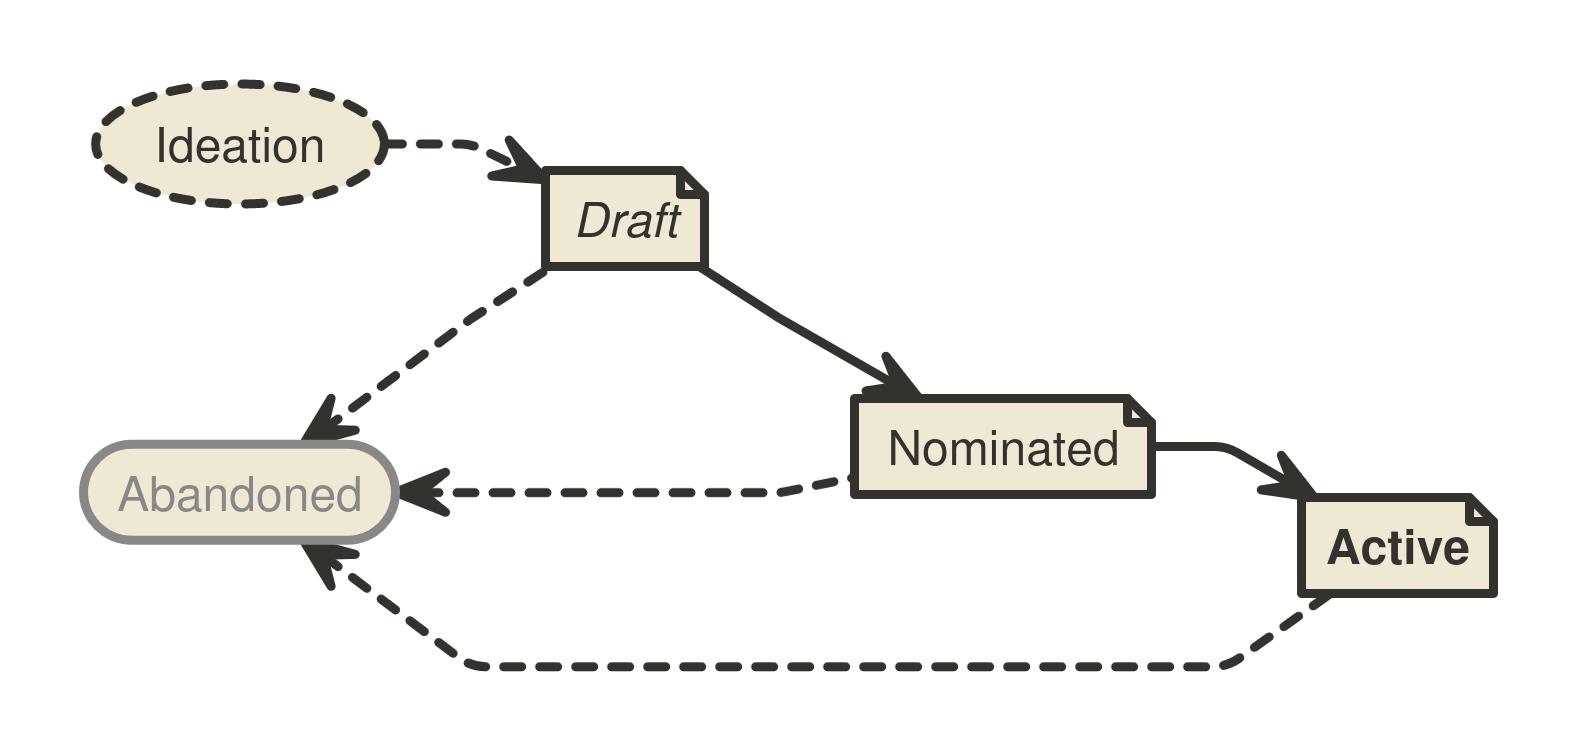
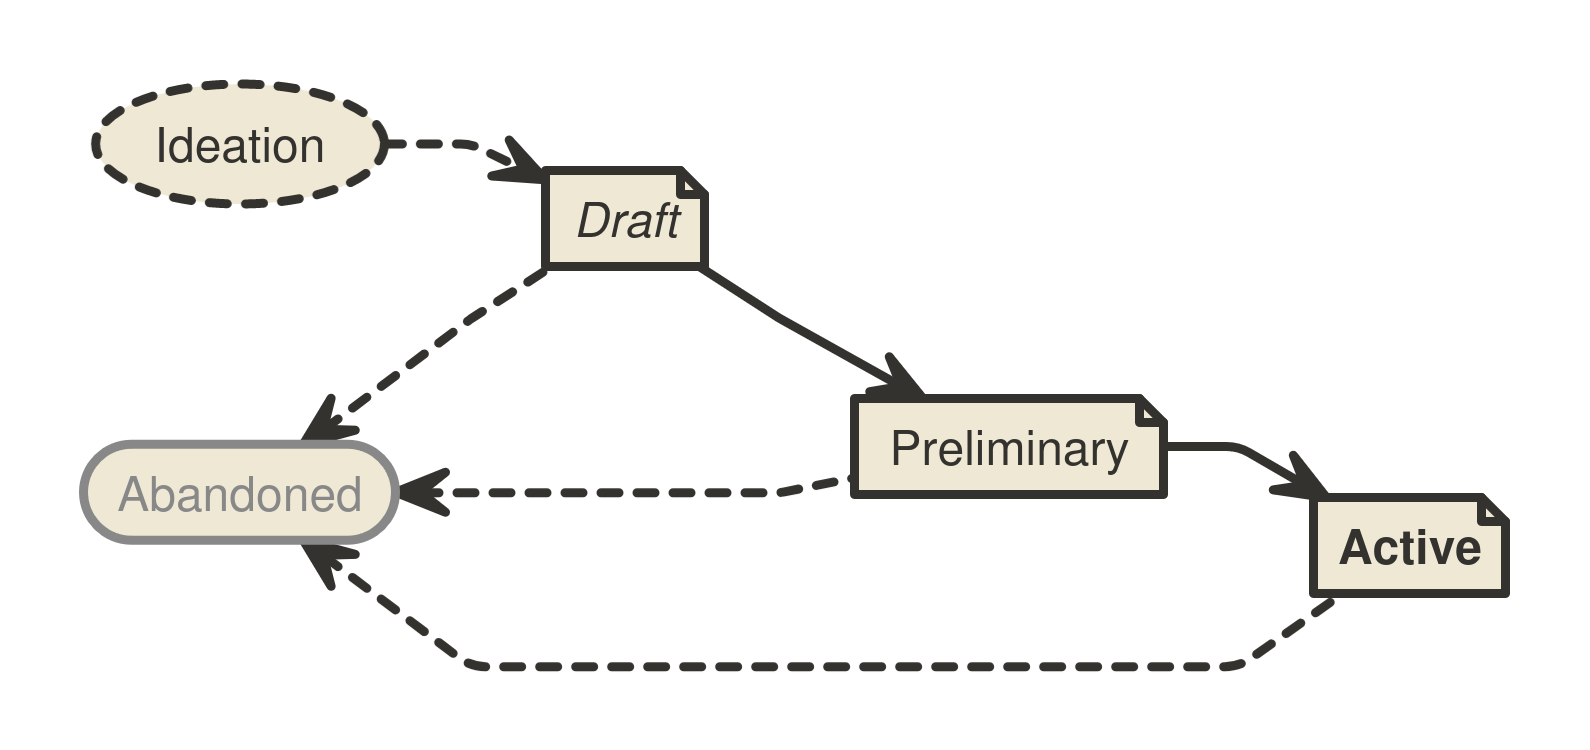
Replace Nominated with Preliminary

diff --git a/bip-update-process.md b/bip-update-process.md
@@ -71,9 +71,9 @@ Each BIP should have the following parts:
 * Backwards compatibility -- BIPs must include a section describing any backwards incompatibilities and their severity.
   The BIP must explain how implementors/users should deal with these incompatibilities.
 * Reference implementation -- Where applicable, a reference implementation, test vectors and documentation must be
-  completed before the BIP can be given status "Nominated". Any or all of these can be provided either in the BIP or as
+  completed before the BIP can be given status "Preliminary". Any or all of these can be provided either in the BIP or as
   auxiliary files. It is recommended to focus on specification and rationale before writing code.
-* Change Log -- An optional section to track modifications to a BIP after reaching Nominated status.
+* Change Log -- An optional section to track modifications to a BIP after reaching Preliminary status.
 * Footnotes -- A collection of footnotes cited in the BIP, and a place to list non-inline hyperlink targets
 * Copyright -- The BIP must be placed under an acceptable license ([see BIP Licensing below](#bip-licensing)).
 
@@ -90,7 +90,7 @@ marked with "\*" are optional. All other headers are required.
 * Layer: <Consensus (soft fork) | Consensus (hard fork) | Peer Services | API/RPC | Applications>
   Title: <BIP title; maximum 44 characters>
   Author: <list of authors’ names and email addresses>
-  Status: <Draft | Nominated | Active | Abandoned>
+  Status: <Draft | Preliminary | Active | Abandoned>
   Type: <Standards Track | Informational | Process>
   Created: <date created on, in ISO 8601 (yyyy-mm-dd) format>
   License: <abbreviation for approved license(s)>
@@ -216,24 +216,24 @@ After the BIP is merged to the repository, its main focus should no longer shift
 may continue to update the draft as necessary in the git repository. Updates to drafts by the author should also be
 submitted as pull requests.
 
-#### Nominated[^nominated]
+#### Preliminary[^preliminary]
 
 When the author is confident that their BIP represents a net-improvement, is clear, comprehensive, has a working
 reference implementation (if applicable), and is ready for adoption by the Bitcoin community, they may update the BIP’s
-status to Nominated to indicate that they recommend adoption or implementation of the BIP. Where applicable, the
+status to Preliminary to indicate that they recommend adoption or implementation of the BIP. Where applicable, the
 author must ensure that any proposed specification is solid, not unduly complicated, and definitive. Subsequently, a
 BIP’s content should only be adjusted in minor details, e.g. to improve language, clarify ambiguities, backfill
 omissions in the specification, add test vectors for edge-cases, or address other issues discovered as the BIP is
 adopted.
 
-A Nominated BIP can only move to Active or to Abandoned. Any necessary changes to the specification should be
-minimal and interfere as little as possible with on-going or concluded adoption. If a Nominated BIP is found to need
+A Preliminary BIP can only move to Active or to Abandoned. Any necessary changes to the specification should be
+minimal and interfere as little as possible with on-going or concluded adoption. If a Preliminary BIP is found to need
 substantial functional changes, it may be preferable to move it to Abandoned, and to draft a new BIP with the changes
 instead.
 
 #### Active
 
-At the earliest three months after a BIP has been moved to Nominated, a BIP may be advanced to Active upon request by
+At the earliest three months after a BIP has been moved to Preliminary, a BIP may be advanced to Active upon request by
 any community member with evidence that the idea described in the BIP is in active use. Such evidence includes
 for example: two or more projects having deployed support for the BIP in mainnet software releases, a soft fork
 proposal’s activation criteria having been met on the network, or rough consensus for the BIP having been demonstrated.
@@ -243,7 +243,7 @@ separate BIP.
 
 ##### Process BIPs
 
-A process BIP may change status from Nominated to Active when it achieves rough consensus on the mailing list. Such a
+A process BIP may change status from Preliminary to Active when it achieves rough consensus on the mailing list. Such a
 proposal is said to have rough consensus if it has been open to discussion on the development mailing list for at least
 one month, and no person maintains any unaddressed substantiated objections to it. Addressed or obstructive objections
 may be ignored/overruled by general agreement that they have been sufficiently addressed, but clear reasoning must be
@@ -252,14 +252,14 @@ has rough consensus per the same criteria.
 
 ##### Revisions
 
-To help implementers understand updates to a BIP, any changes after it has reached Nominated or Active are
+To help implementers understand updates to a BIP, any changes after it has reached Preliminary or Active are
 tracked with version, date, and description in a Change Log section. The version number is inspired by semantic
 versioning (MAJOR.MINOR.PATCH). The MAJOR version is incremented if changes to the BIP’s Specification are introduced
-that are incompatible with prior versions (which should be an exception after a BIP is Nominated, and not happen to a
+that are incompatible with prior versions (which should be an exception after a BIP is Preliminary, and not happen to a
 BIP that is Active). The MINOR version is incremented whenever the specification of the BIP
 is changed or extended in a backward-compatible way. The PATCH version is incremented for other changes to the BIP that
 are noteworthy (bug fixes, test vectors, important clarifications, etc.). The version should start at 1.0.0 with the
-date the BIP was promoted to Nominated. An example of a Change Log section can be seen in [BIP 352](bip-0352.mediawiki).
+date the BIP was promoted to Preliminary. An example of a Change Log section can be seen in [BIP 352](bip-0352.mediawiki).
 
 #### Abandoned[^abandoned]
 
@@ -268,9 +268,9 @@ proposal, or no longer recommends the proposed approach, AND the BIP is not in a
 
 BIP authors may decide on their own to change their BIP’s status from Draft to Abandoned.
 
-BIPs with the status Nominated can be moved to Abandoned after an author announces that to the
+BIPs with the status Preliminary can be moved to Abandoned after an author announces that to the
 Bitcoin Developer Mailing List and the motion is not opposed within 14 days. One of the opposers must become the new BIP author
-for the BIP to remain Nominated. A BIP can also be moved to Abandoned by BIP Editors, if it is not in active
+for the BIP to remain Preliminary. A BIP can also be moved to Abandoned by BIP Editors, if it is not in active
 use, its author has become unresponsive and no new author volunteers within four weeks.
 
 A BIP may evolve from Active to Abandoned when it is no longer in active use. Any community member may
@@ -280,7 +280,7 @@ initiate this Status update by announcing it to the mailing list and no objectio
 
 The BIPs repository does not track the sentiment on proposals and does not track the adoption of BIPs beyond whether
 they are in active use or not. It is not intended for BIPs to list additional implementations beyond the reference
-implementation.[^OtherImplementations] After a BIP is advanced to Nominated, it is up to the Bitcoin community to
+implementation.[^OtherImplementations] After a BIP is advanced to Preliminary, it is up to the Bitcoin community to
 evaluate, adopt, ignore, or repudiate a BIP. Individual Bitcoin projects are encouraged to publish a list of BIPs they
 implement. A good example of this at the time of writing this BIP can be observed in [Bitcoin Core’s doc/bips.md
 file](https://github.com/bitcoin/bitcoin/blob/master/doc/bips.md).
@@ -418,7 +418,7 @@ original intent of the author.
 
 - Refer to the proponent of a BIP as "author" throughout the document
 - Status field is no longer modeled around the workflow of consensus changes. The only remaining status are DRAFT,
-  NOMINATED, ACTIVE, and ABANDONED. The statuses Deferred, Final, Obsolete, Proposed, Rejected, Replaced, and Withdrawn
+  PRELIMINARY, ACTIVE, and ABANDONED. The statuses Deferred, Final, Obsolete, Proposed, Rejected, Replaced, and Withdrawn
   are sunset.
 - BIPs can no longer be rejected due to inactivity, but BIPs that see no adoption and whose author has become
   unreachable can be moved to Abandoned
@@ -460,7 +460,7 @@ This BIP is licensed under the [CC0 1.0 Universal](https://creativecommons.org/p
     This put an onus on the BIP authors, and frequently led to lingering pull requests due to the corresponding BIPs’
     authors no longer participating in the process. Many of these alternative implementations eventually became
     unmaintained or were low-quality to begin with. Therefore, "Other Implementations" sections are heavily discouraged.
-[^nominated]: **Why has the Proposed Status been renamed to Nominated?**  
+[^preliminary]: **Why has the Proposed Status been renamed to Preliminary?**  
     Some reviewers of this BIP brought up that all Bitcoin Improvement _Proposals_ are _proposed_ per se. Therefore, a
     new name was chosen.
 [^abandoned]: **Why was the Abandoned Status introduced?**  
